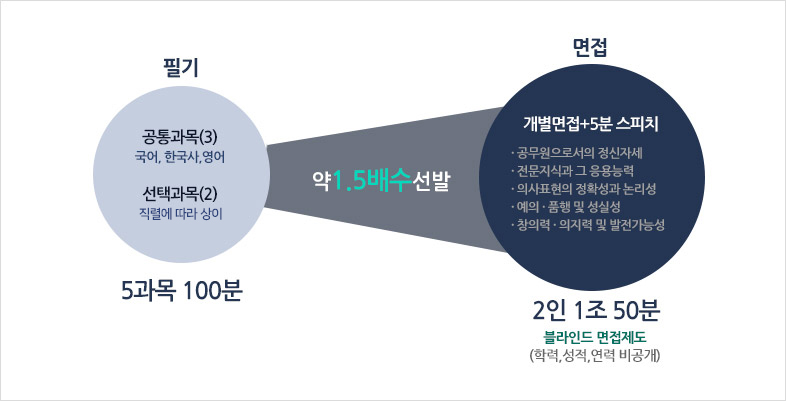
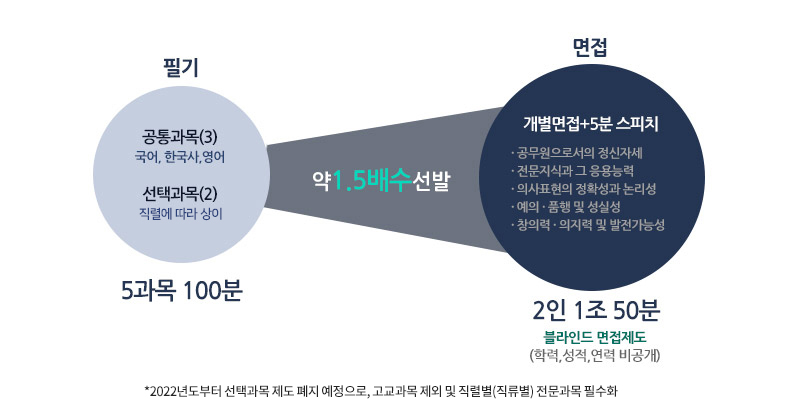
공무원 초보가이드

Changed region(s): [[0.0, 0.9576, 1.0, 1.0], [0.9771, 0.0, 1.0, 0.0299], [0.0, 0.0, 0.0305, 0.0299]]

diff --git a/views/willbes/pc/site/guide/gosi_show.blade.php b/views/willbes/pc/site/guide/gosi_show.blade.php
@@ -129,7 +129,7 @@
                                                 {{--<h5 class="hTy5 hTy txt-gray"> <span>(지방직은 각 지역에 따라 내용이 상이하니 각 지역별 채용공고를 참고해 주시기 바랍니다)</span></h5>--}}
                                                 <img class="agM" src="{{ img_url('gosi/guide/guide_public_c2.jpg') }}">
                                                 <h4 class="hTy4 hTy mt30">7급 공개경쟁채용시험 (2021 지방공무원 채용시험 기준)</h4>
-                                                <img class="agM" src="{{ img_url('gosi/guide/guide_public_c2.jpg') }}">
+                                                <img class="agM" src="{{ img_url('gosi/guide/guide_public_c2_1.jpg') }}">
                                                 <h5 class="hTy6 hTy txt-red center">교정직 및 철도공안직 6급 이하 채용시험의 경우 필기시험 합격자를 대상으로 실기시험(체력검사)을 실시하고, 실기시험 합격자에 한하여 면접시험 실시</h5>
                                             </div>
                                         </div>
